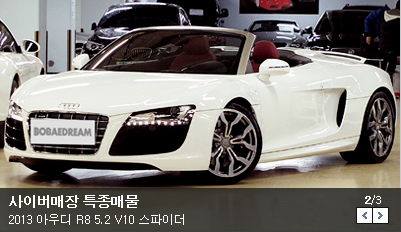
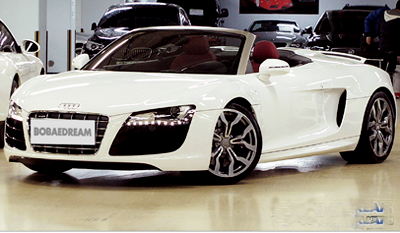
0207 at home final

diff --git a/CSS/0206_bbd_again.html b/CSS/0206_bbd_again.html
@@ -21,7 +21,7 @@
 		.ir{font-size: 0; text-indent: -9999px; position:absolute; top:-9999px; left:-9999px;}
 
 		/*lay out*/
-		.wrap{width:990px; height:800px; margin: 0 auto; }
+		.wrap{width:990px; margin: 0 auto; }
 		.gnb{width: 990px; height: 30px;  margin: 0 auto; line-height: 30px; background-color: rgb(240, 240, 240);}
 		.header{width: 990px; height: 138px; }
 		.book_mark{
@@ -51,8 +51,8 @@
 		.icon_select{ width: 12px; height: 12px; margin-left: 5px; display:inline-block; background-image: url(../image/bbd/icon_menu_down.png);
 			background-repeat: no-repeat; vertical-align: middle;
 		}
-		.icon_mobile{ width: 8px; height: 12px; margin-right: 5px; display:inline-block; background-image: url(../image/bbd/icon_phone.png);
-			background-repeat: no-repeat; vertical-align: middle;
+		.icon_mobile{ width: 8px; height: 20px; margin-right: 5px; display:inline-block; background-image: url(../image/bbd/icon_phone.png);
+			background-repeat: no-repeat; vertical-align: middle; background-position: 0 2px ;
 		}
 		.gnb_my_option strong{color:blue;}
 
@@ -107,14 +107,12 @@
 		.information .intoday div span{ margin-right: 5px; color:#373737;}
 		.information .intoday div strong{color:#005dde;}
 
-
-
 		.nav_arrow{
 			width: 3px; height: 5px; background-image: url(../image/bbd/right_blue_arrow.png);
 			background-repeat: no-repeat; background-position: 6px 0;
 			padding-left:7px; display: inline-block; vertical-align: middle;
 		}
-		.body{width: 990px; border: 1px #F00 solid; margin-top: 84px; }
+		.body{width: 990px; border: 1px #F00 solid; margin: 84px auto 0; }
 		.section{width: 748px; height: 355px; float:left; border: 1px #CCC solid;}
 
 
@@ -122,11 +120,40 @@
 		.top_two{width: 746px; height: 112px;}
 		.t_ad{outline: 1px #CCC solid; width: 520px; height: 100px; float: left;}
 		.go_party{outline: 1px #CCC solid; width: 220px; height: 100px; float: right; }
-		.main_article{outline: 1px #CCC solid; width: 746px; height: 232px;}
-		.main_article li{float:left;}
-		.main_article .audi{outline: 1px #CCC solid; width: 400px; height: 233px;}
-		.main_li{width: 337px; height: 72px;}
-	  </style>
+
+		.main_article{outline: 1px #CCC solid; width: 746px; height: 233px;}
+		/*.main_article li{float:left;} */
+		.main_article .main_banner{position:relative; float:left; height:233px;}
+		.main_article .main_banner>span{outline: 1px #CCC solid; width: 400px; height: auto;}
+		.main_banner~li{border-top:1px #e4e6e5 solid; margin: 0 10px 0 403px; font-size: 11px; height: 79px;}
+		.main_banner+li{height: 76px; border-top:0 none;}
+		.main_banner+li~li img{margin-top: 4px;}
+		.main_banner+li+li+li img{margin-top: 3px;}
+		.main_banner~li img{outline:1px #CCC solid; float:left; margin-right:13px; }
+		.main_banner~li strong{display: block; padding-top: 13px; }
+
+
+		.main_article .main_banner .main_cover{
+			width: 400px; height: 44px; background-color: #3e3c34; background-repeat: no-repeat;
+			position:absolute; bottom:0; left:0; right:0; height:44px}
+		.main_cover>div{width: 390px; margin:5px;}
+		.main_cover>div strong{font-size:13px; color: #ffffff; }
+		.main_cover>div cite{font-size:9px; display:block; color: #ffffff; font-style: normal;}
+		.main_cover .btn_group{position:absolute; top:0; right:0; font-size: 0; text-align: center; width: 34px;}
+		.main_cover .btn_group input[type="button"]{border:none; text-indent: -9999px;
+			background-image: url(../image/bbd/both_arrow.png); height: 17px; width: 17px;
+			background-repeat: no-repeat; vertical-align:middle; cursor: pointer;
+		}
+		.main_cover .btn_group input[value="다음"]{background-position: -16px 0;		}
+		.main_cover .btn_group span{font-size: 12px; color:#FFF;}
+		.main_cover .btn_group .number{font-weight:bold; }
+		.main_cover .btn_group .number:after{ content: "/";  margin: 0 5px;}
+
+
+
+
+
+		</style>
 	<body>
 		<div class="wrap">
 			<div class="header">
@@ -283,23 +310,47 @@
 						<div class="t_ad"><a href=""><img src="../image/bbd/main_ad.png" alt=""></a></div>
 						<div class="go_party"><a href=""><img src="../image/bbd/go_party.png" alt=""></a></div>
 					</div>
-						<div class="main_article">
-							<ul>
-								<li><a href="">
-									<div class="audi"><img src="../image/bbd/main_audi.png" alt=""></div></a>
-								</li>
-								<li><a href="">
-									<d
-									iv class="main_li"><a href=""><img src="../image/bbd/main_li_1.png" alt="">
-										<strong>국산중고차 특종매물</strong><br/>
-										<span>1988 현대 스텔라 1.5 88형 GLX<br/>극 희소, 1988년 올림픽 공식모델!!</span></a>
+					<div class="main_article">
+						<ul>
+							<li class="main_banner">
+								<span>
+									<img src="../image/bbd/main_audi.png" alt="">
+								</span>
+								<div class="main_cover">
+									<div>
+										<strong>사이버매장 특종매물</strong>
+										<cite>2013 아우디 R8 5.2 V10 스파이더</cite></a>
 									</div>
-								</li>
-								<li><a href=""><img src="../image/bbd/main_li_2.png" alt=""></a></li>
-								<li><a href=""><img src="../image/bbd/main_li_3.png" alt=""></a></li>
-							</ul>
-						</div>
-
+									<div class="btn_group">
+											<span class="number">1</span><span>3</span>
+											<input type="button" value="이전">
+											<input type="button" value="다음">
+									</div>
+								</div>
+							</li>
+							<li>
+								<a href="">
+									<img src="../image/bbd/main_li_1.png" alt="">
+									<strong>국산중고차 특종매물</strong>
+									<cite>1988 현대 스텔라 1.5 88형 GLX 극 희소. 1988년 올림픽 공식모델!!</cite>
+								</a>
+							</li>
+							<li>
+								<a href="">
+									<img src="../image/bbd/main_li_2.png" alt="">
+									<strong>국산중고차 특종매물</strong>
+									<cite>1988 현대 스텔라 1.5 88형 GLX 극 희소. 1988년 올림픽 공식모델!!</cite>
+								</a>
+							</li>
+							<li>
+								<a href="">
+									<img src="../image/bbd/main_li_3.png" alt="">
+									<strong>국산중고차 특종매물</strong>
+									<cite>1988 현대 스텔라 1.5 88형 GLX 극 희소. 1988년 올림픽 공식모델!!</cite>
+								</a>
+							</li>
+						</ul>
+					</div><!--main_article-->
 				</div><!--section-->
 				<div class="aside">
 				</div><!--aside-->
